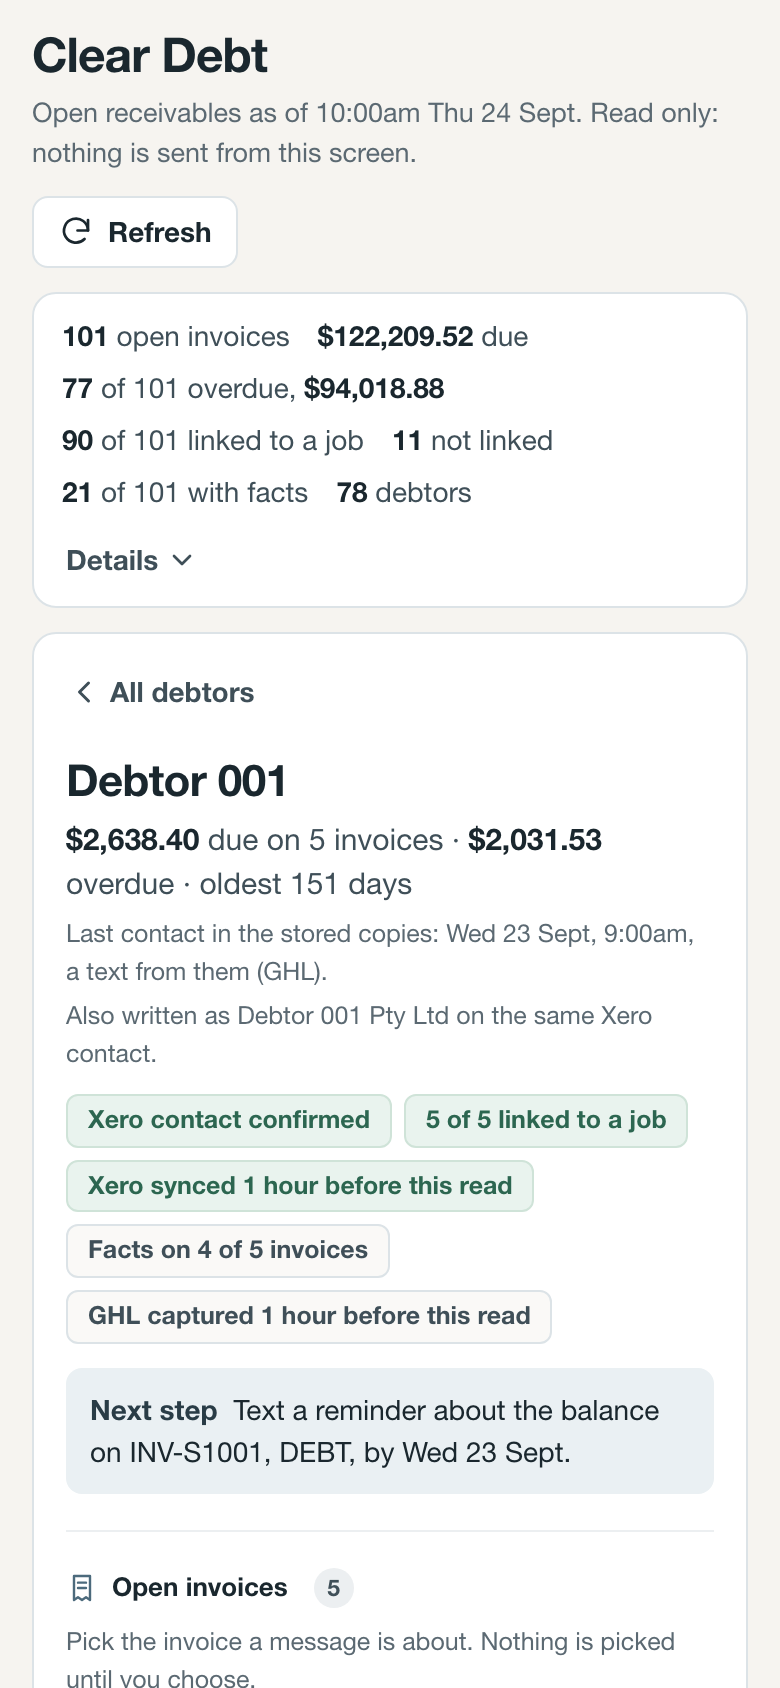
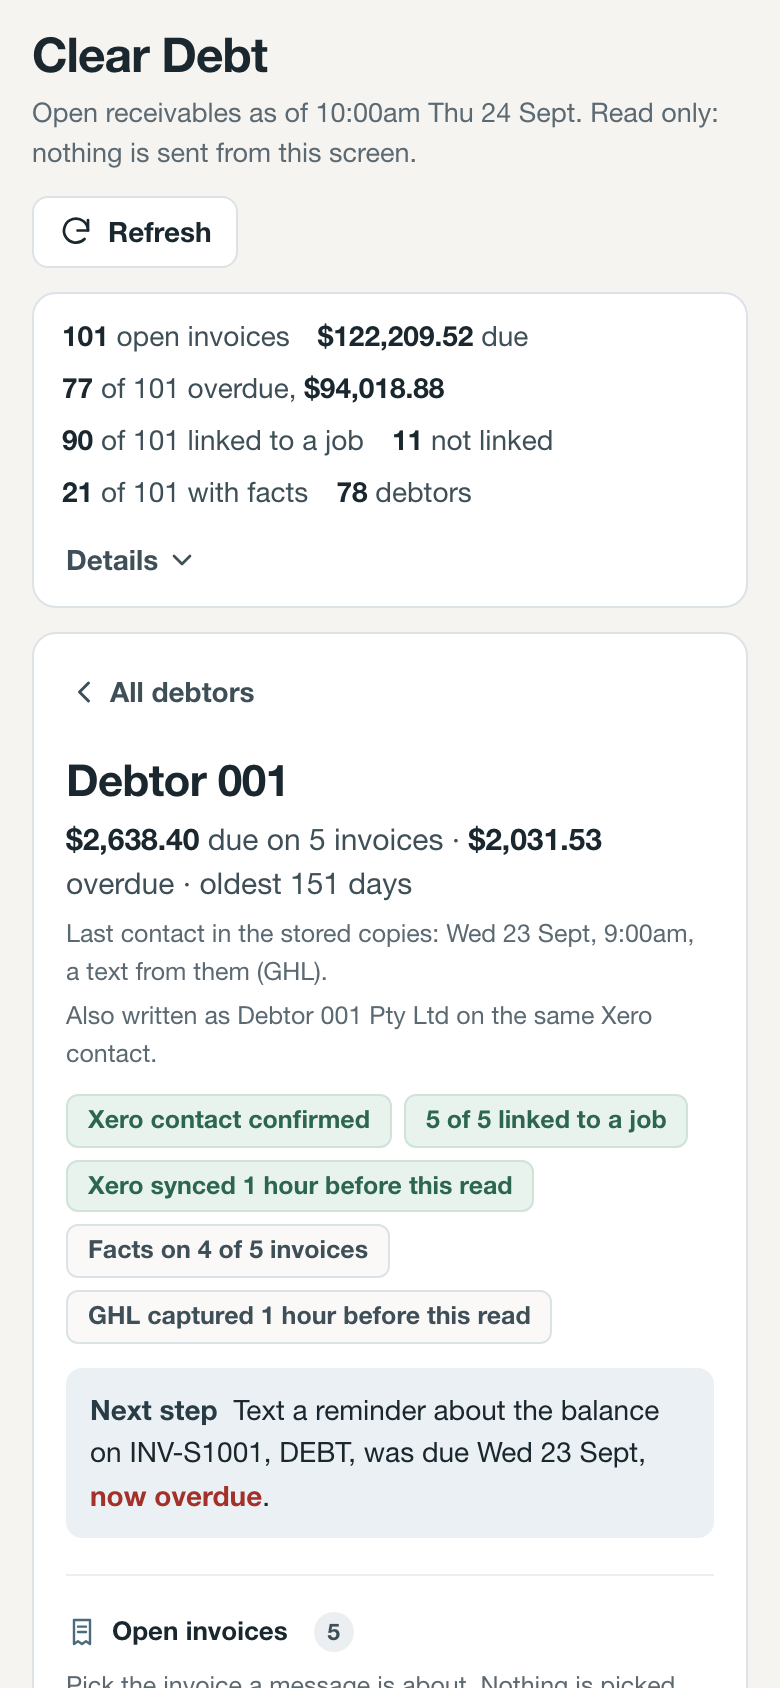
fix(ops): Clear Debt copy fixes from the CFO desk review
- An invoice event reads in words ("Invoice INV-S1004 emailed to ..."),
  never as the raw event name.
- The stored-email caveat reads "Sent emails are not captured yet; that fix
  is under way." with no internal codes, owners or lane names.
- A next step whose day has passed in Perth says it was due and is now
  overdue.

diff --git a/modules/ops-clear-debt-v2.js b/modules/ops-clear-debt-v2.js
@@ -359,7 +359,7 @@
     var s = (d.sources && d.sources[key]) || {};
     var st = s.status;
     var asOf = d.freshness && d.freshness.as_of;
-    function line(bad, text, short) { return { key: key, bad: bad, text: withFix(s, text), short: short }; }
+    function line(bad, text, short, plain) { return { key: key, bad: bad, text: plain ? text : withFix(s, text), short: short }; }
     if (key === 'ghl') {
       if (st === 'bound' || st === 'several') return null;
       if (st === 'stale') return line(true, 'Stored GHL texts are stale: last captured ' + (s.last_success_at ? (ageBetween(s.last_success_at, asOf) || 'some time') + ' before this read' : 'at a time the read did not give') + (s.stale_after ? ', stale after ' + s.stale_after : '') + '.', 'stored GHL texts are stale');
@@ -370,7 +370,7 @@
       return line(false, 'The read did not say whether stored GHL texts were read.', 'GHL texts may not have been read');
     }
     if (key === 'email') {
-      if (st === 'partial' || st === 'read' || st === 'current') return line(false, 'Stored emails are inbound copies only; sent emails are not captured.', 'sent emails are not captured');
+      if (st === 'partial' || st === 'read' || st === 'current') return line(false, SENT_EMAIL_CAVEAT, 'sent emails are not captured yet', true);
       if (st === 'unreadable') return line(true, 'Stored emails could not be read.', 'stored emails could not be read');
       if (st === 'no_job') return line(false, 'No invoice on this debtor is linked to a job, so stored emails cannot be read.', 'no job is linked, so emails cannot be read');
       if (st === 'not_read') return line(false, 'Stored emails were not read for this view.', 'emails were not read');
@@ -596,7 +596,7 @@
       '<li>Promised payment dates, so there is no promise-date filter.</li>' +
       '<li>A ready-for-Captain verdict, so no row is marked ready.</li>' +
       (factsListedAnywhere(d) ? '' : '<li>What the captured facts say (only whether they exist).</li>') +
-      '<li>Sent emails: Outlook Sent Items are not captured, so stored emails are inbound only.</li>' +
+      '<li>' + esc(SENT_EMAIL_CAVEAT) + '</li>' +
       '<li>Links to each message in GHL or Outlook.</li>' +
       '<li>The phone line, mailbox, subject and attachment a draft would use.</li>' +
       '</ul></div>' +
@@ -606,6 +606,8 @@
   function factsListedAnywhere(data) {
     return (data.debtors || []).some(function (x) { return x.sources && x.sources.facts && x.sources.facts.timeline_read === 'read'; });
   }
+  // The stored-email caveat, in the words the CFO desk approved: no internal codes, owners or lane names.
+  var SENT_EMAIL_CAVEAT = 'Sent emails are not captured yet; that fix is under way.';
   var STORED_NOTE = 'stored copies, not a live GHL or Outlook read';
 
   function renderAlerts() {
@@ -735,7 +737,7 @@
       : '';
     var next = d.next_step
       ? '<p class="nextstep"><span>Next step</span> ' + esc(d.next_step.action) + ' on ' + esc(d.next_step.from_invoice_number || 'one invoice') +
-        (d.next_step.owner ? ', ' + esc(d.next_step.owner) : '') + (d.next_step.at ? ', by ' + esc(dayLabel(d.next_step.at)) : '') + '.</p>'
+        (d.next_step.owner ? ', ' + esc(d.next_step.owner) : '') + nextStepDue(d.next_step.at, state.data.as_of) + '.</p>'
       : '<p class="nextstep is-quiet"><span>Next step</span> None recorded on any of these invoices.</p>';
     var last = d.last_contact && d.last_contact.last;
     var lastLine;
@@ -759,6 +761,19 @@
       '</header>';
   }
 
+  // "by Fri 25 Sept", or, once that day has passed in Perth, "was due Wed 23 Sept, now overdue".
+  function perthDay(iso) {
+    if (/^\d{4}-\d{2}-\d{2}$/.test(String(iso))) return String(iso);
+    var p = parts(iso, { year: 'numeric', month: '2-digit', day: '2-digit' });
+    return p ? p.year + '-' + p.month + '-' + p.day : null;
+  }
+  function nextStepDue(at, asOf) {
+    if (!at) return '';
+    var due = perthDay(String(at).length > 10 ? at : String(at).slice(0, 10));
+    var today = perthDay(asOf);
+    if (due && today && due < today) return ', was due ' + esc(dayLabel(due)) + ', <b class="bad-text">now overdue</b>';
+    return ', by ' + esc(dayLabel(at));
+  }
   function factsWords(f) {
     if (!f) return 'Facts not reported';
     if (f.status === 'present') return 'Facts captured on every linked invoice';
@@ -892,12 +907,25 @@
       '<span class="tl-kind">' + esc((kindLabel(e) + ' ' + directionWord(e)).trim()) + '</span>' +
       '<time datetime="' + esc(e.at || '') + '">' + esc(whenLabel(e.at, e.at_precision)) + '</time></div>' +
       (e.subject && e.kind !== 'invoice_event' ? '<div class="tl-subject">' + esc(e.subject) + '</div>' : '') +
-      '<div class="tl-body">' + esc(e.preview || '') + '</div>' +
+      '<div class="tl-body">' + esc(e.kind === 'invoice_event' ? invoiceEventText(d, e) : (e.preview || '')) + '</div>' +
       '<div class="tl-foot">' + author +
       (isRecord(e) ? '' : '<span class="prev">' + (previewCut(e) ? 'Preview, cut at 500 characters' : 'Preview') + '</span> · ') +
       esc(sourceLabel(e.source)) + (also.length ? ', also in ' + esc(also.map(sourceLabel).join(', ')) : '') +
       (scopeWords ? ' · ' + esc(scopeWords) : '') + (e.label ? ' · ' + esc(e.label) : '') +
       '</div></li>';
+  }
+  // An invoice lifecycle event in words ("Invoice INV-S1004 emailed to ..."),
+  // never the raw event name the read carries in subject and preview.
+  var EVENT_VERB = { 'invoice.emailed': 'emailed', 'invoice.approved_and_sent': 'approved and sent', 'invoice.approved': 'approved', 'invoice.authorised': 'authorised' };
+  function invoiceEventText(d, e) {
+    var type = String(e.subject || '');
+    var preview = String(e.preview || '');
+    var to = type && preview.indexOf(type + ' to ') === 0 ? preview.slice(type.length + 4) : null;
+    var inv = (e.invoice_ids || []).map(function (id) { return invoiceNumber(d, id); }).join(', ') || 'the invoice';
+    if (type === 'payment.reconciled') return 'Payment reconciled against ' + inv + '.';
+    if (type === 'payment.link_sent') return 'Payment link for ' + inv + ' sent' + (to ? ' to ' + to : '') + '.';
+    var verb = EVENT_VERB[type] || words(type.split('.').pop() || 'updated');
+    return 'Invoice ' + inv + ' ' + verb + (to ? ' to ' + to : '') + '.';
   }
   function jobNumberFor(d, jobId) {
     if (!jobId) return null;
@@ -1093,6 +1121,8 @@
     timelineEntries: timelineEntries,
     chipCounts: chipCounts,
     timelineLimits: timelineLimits,
+    invoiceEventText: invoiceEventText,
+    nextStepDue: nextStepDue,
     absenceLine: absenceLine,
     staleOrUnreadable: staleOrUnreadable,
     isFactEntry: isFactEntry,

diff --git a/tests/e2e/ops-clear-debt.spec.js b/tests/e2e/ops-clear-debt.spec.js
@@ -115,7 +115,9 @@ for (const vp of viewports) {
       const entries = card.locator('.thread > li.tl');
       await expect(entries).toHaveCount(12);
       await expect(card.locator('[data-cd-limits]')).toContainText('Only the newest 12 of 32 stored entries are in this read.');
-      await expect(card.locator('[data-cd-limits]')).toContainText('Stored emails are inbound copies only; sent emails are not captured');
+      await expect(card.locator('[data-cd-limits]')).toContainText('Sent emails are not captured yet; that fix is under way.');
+      await expect(card.locator('.tl.is-out', { hasText: 'Invoice emailed' }).first().locator('.tl-body')).toHaveText(/^Invoice INV-S\d+ emailed to debtor001@example\.invalid\.$/);
+      await expect(card.locator('.nextstep')).toContainText('now overdue');
       await expect(card.locator('.tl .src').first()).toBeVisible();
       await expect(card.locator('.tl-foot', { hasText: 'Preview, cut at 500 characters' })).toHaveCount(1);
       await expect(card.locator('.tl-foot', { hasText: 'also in captured event' })).toHaveCount(1);

diff --git a/docs/clear-debt-ui.md b/docs/clear-debt-ui.md
@@ -13,7 +13,7 @@ The screen is a work list, phone first:
 - **Debtor card**: name, totals, last contact, name variants on the same contact, the standing-alone reason for an unconfirmed contact, badges for identity, job links, Xero freshness, facts and any unreadable source, the debtor's next step naming its invoice, and each debtor fault with its supplied detail.
 - **Invoice picker**: every invoice its own radio row, none picked at first. The draft exists only once one invoice is picked, and is about that invoice only.
 - **Timeline**: `debtor.timeline.entries` as one stream, newest first. Entries show their provider, kind, time, source and available invoice or job scope; messages also show direction and a preview, and duplicate message sources are listed when present. Chips filter that same stream. **Captured facts are timeline entries** with `kind: "fact"` (provider `luna`, source `current_job_context_facts`, a `fact` block with `kind`, `value`, `captured_at`, `source_id` and `state` current or stale); nothing else is a fact, and there is no separate facts panel. The Facts chip shows a count only when `sources.facts.timeline_read` is `read`.
-  **One rule for empty and partial views** (`timelineLimits` / `absenceLine`): every source behind the current view that was not fully read (GHL unreadable, stale, not read, no job or no contact; email always, because it is inbound copies only and Sent Items are not captured; notes unreadable or not read; Xero stale; facts unreadable, not read, only counted or no job), each capped job and a truncated timeline gets exactly one line under the chips, with the read's owner and fix when it gives them. An absence ("No texts among the 7 stored items read for this debtor.") is said only when every source behind the view was fully read, and only for what was read; beside any limit there is no absence line at all. The card's last-contact line follows the same rule: "Last contact in the stored copies: …", or "Last contact unknown:" followed by the limits. `modules/ops-clear-debt-v2.test.cjs` covers every path in one table.
+  **One rule for empty and partial views** (`timelineLimits` / `absenceLine`): every source behind the current view that was not fully read (GHL unreadable, stale, not read, no job or no contact; email always, shown as "Sent emails are not captured yet; that fix is under way." with no owner or fix codes; notes unreadable or not read; Xero stale; facts unreadable, not read, only counted or no job), each capped job and a truncated timeline gets exactly one line under the chips, with the read's owner and fix when it gives them. An absence ("No texts among the 7 stored items read for this debtor.") is said only when every source behind the view was fully read, and only for what was read; beside any limit there is no absence line at all. The card's last-contact line follows the same rule: "Last contact in the stored copies: …", or "Last contact unknown:" followed by the limits. `modules/ops-clear-debt-v2.test.cjs` covers every path in one table.
 - **Draft**: Text, Email or Note for the picked invoice. A pending desk proposal of the matching channel loads its exact body and any matching-channel recipient supplied in the read; the card names each route field the read does not supply (phone, sending line, email address, subject, attachment, mailbox). Edits stay in the browser tab, are marked as unsaved, and can go back to the drafted words.
 - **Phone**: the list, or the chosen debtor with **All debtors** to go back.
 
